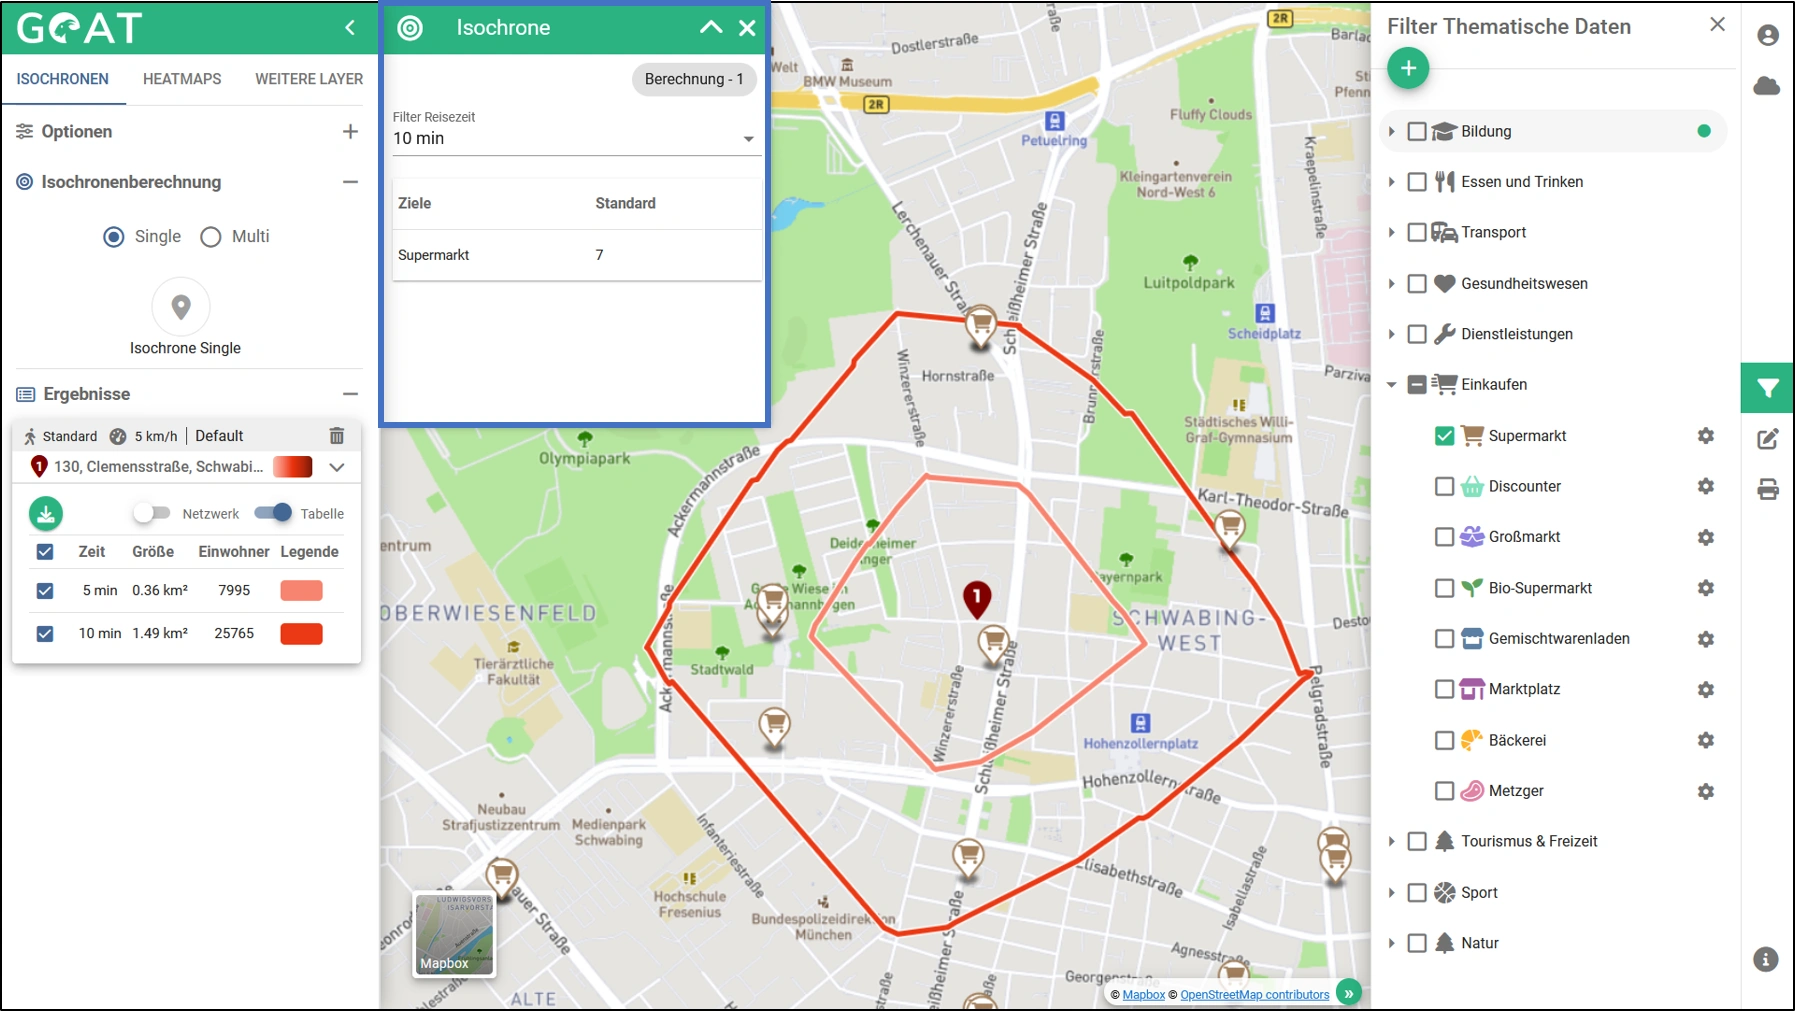
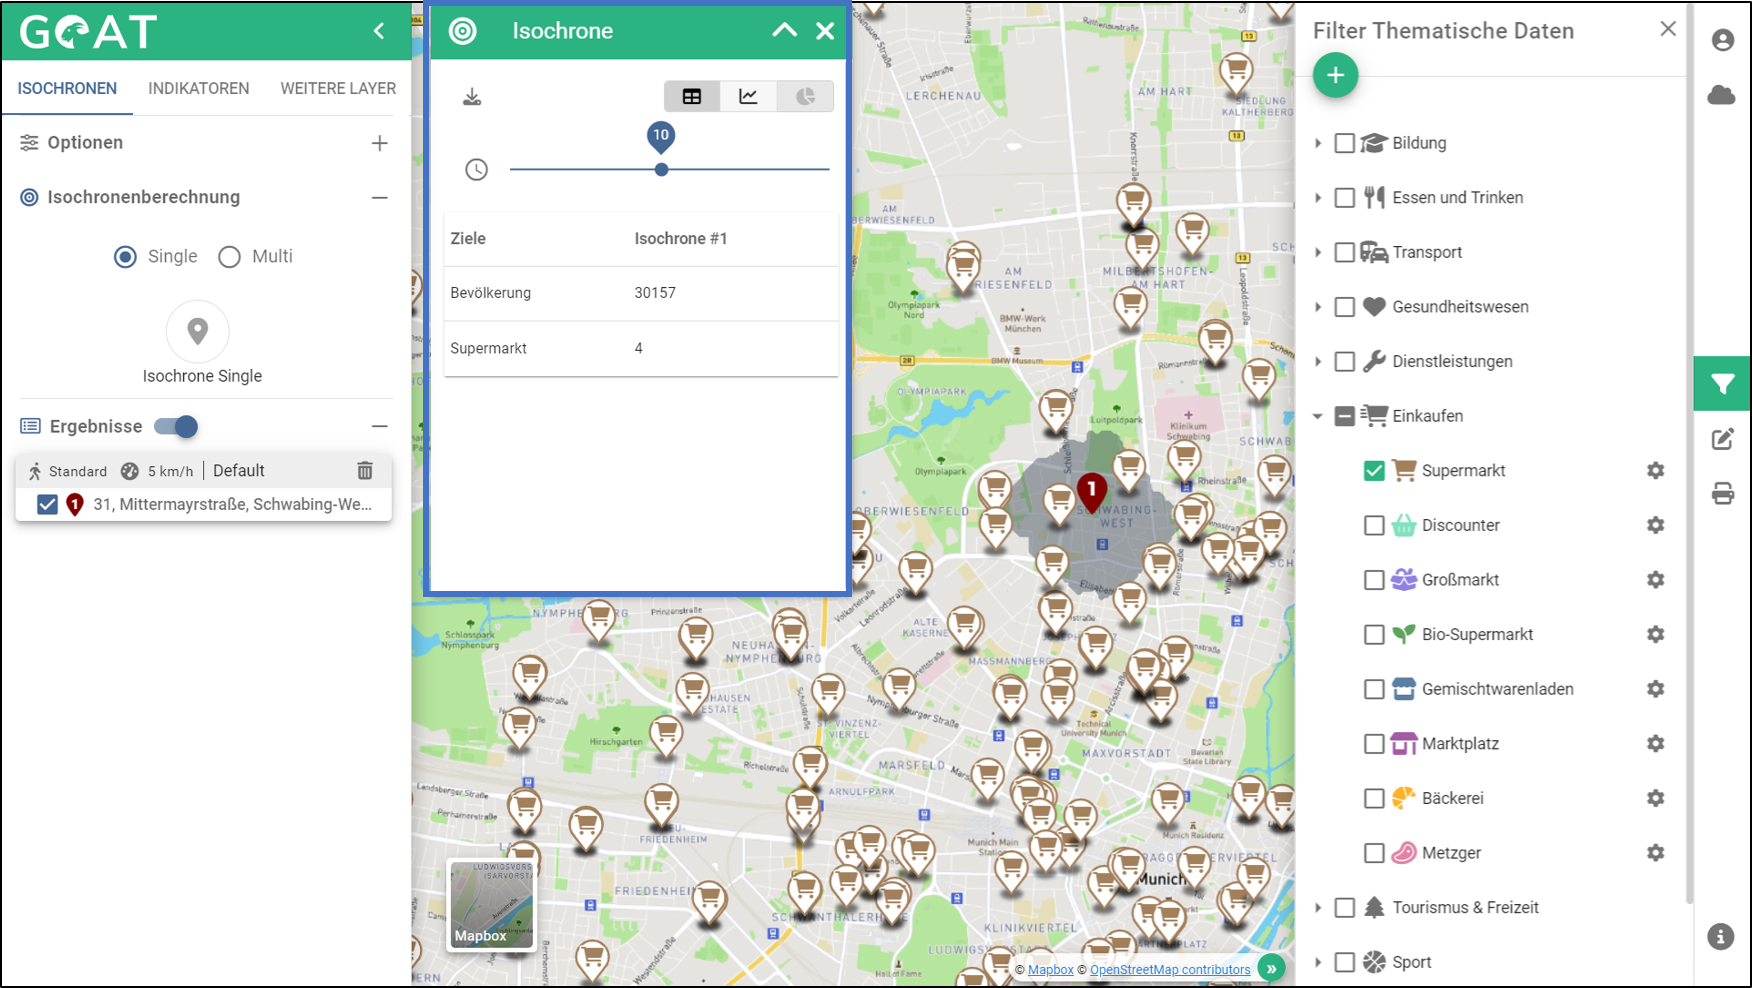
updated screenshots tutorials > isochrones

diff --git a/content/de/tutorials/isochrone.md b/content/de/tutorials/isochrone.md
@@ -11,12 +11,13 @@ description: Schritt-für-Schritt-Anleitung für beispielhafte Planungsfragen un
 #### Beschreibung des Features
 
 Isochronen sind Isolinien, die alle Punkte verbinden, die von einem bestimmten Startpunkt aus innerhalb eines bestimmten Zeitintervalls erreicht werden können. Sie sind besonders geeignet, um die Erreichbarkeit an einem spezifischen Ort aufzuzeigen.
-GOAT ermöglicht die Berechnung von Isochronen und erlaubt die Anpassung der Reisegeschwindigkeit, der Reisezeit und des Routingprofils. Gegenwärtig kann zwischen den Routingprofilen „Zu Fuß“, „Fahrrad Standard“ und „Fahrrad Pedelec“ ausgewählt werden. Außerdem kann die Anzahl der zu berechnenden Isochronen eingestellt werden.
+GOAT ermöglicht die Berechnung von Isochronen und erlaubt die Anpassung der Reisegeschwindigkeit, der Reisezeit und des Routingprofils. Gegenwärtig kann zwischen den Routingprofilen „Zu Fuß“, „Fahrrad Standard“, „Fahrrad Pedelec“, „ÖPNV“ und „Auto“ ausgewählt werden. Außerdem kann die Anzahl der zu berechnenden Isochronen eingestellt werden.
 
 #### Mögliche Anwendungsfälle (Planungsfragen)
 
 * Wie viele Supermärkte können von einem bestimmten Punkt aus innerhalb von 10 Gehminuten erreicht werden?
 * Wie viele Menschen können eine ÖV-Haltestelle innerhalb von 5 Minuten mit dem Fahrrad erreichen?
+* Wie gut ist die Erreichbarkeit mit dem ÖV im Vergleich zur Erreichbarkeit mit dem Auto?
 
 #### Schritt-für-Schritt-Anleitung für die beispielhaften Planungsaufgaben
 
@@ -34,9 +35,9 @@ Wie viele Supermärkte können von einem bestimmten Punkt aus innerhalb von 10 G
 
 2. Zoomen Sie zu dem Bereich, in dem Sie die Isochrone berechnen möchten.
    
-3. Stellen Sie die maximale Reisezeit auf 10 Minuten. Wählen Sie die gewünschte Gehgeschwindigkeit, das Routingprofil und die Anzahl der gewünschten Isochronen aus.
+3. Wählen Sie das Routingprofil und die gewünschte Gehgeschwindigkeit aus.
 
-<img src="/images/tutorials/Isochrone/isochrone_settings.webp"  alt="choose isochrone range" style="max-height:230px;"/>
+<img src="/images/tutorials/Isochrone/Isochrone_1.2_select_de.webp"  alt="choose isochrone range" style="max-height:230px;"/>
 
 4. Platzieren Sie den Startpunkt für die Isochronenberechnung an einem beliebigen Punkt.
    
@@ -45,6 +46,10 @@ Wie viele Supermärkte können von einem bestimmten Punkt aus innerhalb von 10 G
 5. Nachdem die Berechnung ausgeführt wurde, öffnet sich automatisch ein Fenster mit den Ergebnissen. Diesem können Sie die erreichbaren Supermärkte entnehmen.
 
 <img src="/images/tutorials/Isochrone/results_supermarkets.webp"  alt="results"/>
+
+6. Die Ergebnisse können über verschiedene Graphiken analysiert werden. Somit können Sie u.a. die räumliche Verteilung der Supermärkte sehen.
+
+<img src="/images/tutorials/Isochrone/results_supermarkets_2.webp"  alt="results"/>
 
 #### 2 Fahrradrouting
 
@@ -56,22 +61,26 @@ Wie viele Menschen können den Bahnhof innerhalb von 5 Minuten mit dem Fahrrad e
 
 1. Ändern Sie den Routingmodi auf „Fahrrad“ und stellen Sie die Isochronen Reichweite auf 5 Minuten.
    
-<!-- ![](/images/tutorials/Isochrone/cycling-mode.webp) -->
-<img src="/images/tutorials/Isochrone/cycling_mode.webp"  alt="Routing mode cycling" style="max-height:220px;"/>
+<img src="/images/tutorials/Isochrone/Isochrone_2.2_select_de.webp"  alt="Routing mode cycling" style="max-height:220px;"/>
 
 2. Platzieren Sie den Startpunkt für die Isochronenberechnung auf dem Bahnhof.  
    
-<!-- ![](/images/tutorials/Isochrone/starting-point-isochrone.webp) -->
 <img src="/images/tutorials/Isochrone/starting_point_isochrone.webp"  alt="set starting point" style="max-height:150px;"/>
 
-3. Nachdem die Berechnung ausgeführt wurde, erscheint links im Menü ein Fenster mit den Ergebnissen. Diesem können Sie entnehmen, wie viele Menschen den Bahnhof innerhalb von 5 Minuten mit dem Fahrrad erreichen können.
+3. Nachdem die Berechnung ausgeführt wurde, erscheint ein Fenster mit den Ergebnissen. Diesem können Sie entnehmen, wie viele Menschen den Bahnhof innerhalb von 10 Minuten mit dem Fahrrad erreichen können.
 
-<img src="/images/tutorials/Isochrone/cycling_result.webp"  alt="result"/>
+<img src="/images/tutorials/Isochrone/Isochrone_2.3_10minutes_de.webp"  alt="result"/>
 
-4. Durch Klicken auf den Download-Button können Sie die Isochronen als GeoJSON oder Shapefile sowie die Ergebnis-Tabelle als Excel-File herunterladen.
+4. Durch das Bewegen des Sliders kann die Reisezeit dynamisch auf 5 Minuten geändert werden.  
+   
+<img src="/images/tutorials/Isochrone/Isochrone_2.3_5minutes_de.webp"  alt="result"/>
 
-<img src="/images/tutorials/Isochrone/download.webp"  alt="download" style="max-height:250px;"/>
+5. Ergänzeng zur Tabelle können die Bevölkerungszahlen in einer Summenkurve visualisiert werden. 
 
-5. Über den Slider rechts vom Download-Button kann außerdem das Routing-Netzwerk visualisiert werden.
+<img src="/images/tutorials/Isochrone/Isochrone_2.result_different_graph_Eng.webp"  alt="download" style="max-height:300px;"/>
 
-<img src="/images/tutorials/Isochrone/network.webp"  alt="network"/>
+6. Durch Klicken auf den Download-Button können Sie die Isochronen als GeoJSON, Shapefile oder XML sowie die Ergebnis-Tabelle als Excel-File herunterladen.
+
+<img src="/images/tutorials/Isochrone/Isochrone_2.4_export_de.webp"  alt="download" style="max-height:250px;"/>
+
+

diff --git a/content/en/tutorials/isochrone.md b/content/en/tutorials/isochrone.md
@@ -11,12 +11,13 @@ description: Possible use cases and step-by-step tutorials for exemplary plannin
 ---
 #### Description of the feature
 
-Isochrones are isolines connecting all points that can be reached from a specific starting point within a certain time interval. GOAT allows the calculation of isochrones that take factors such as speed, infrastructure network, and traveling time into account. This can be adjusted automatically by choosing between the modes "Walking", "Bike" or "Pedelec". Isochrones can be used as an indicator of accessibility in one specific location.
+Isochrones are isolines connecting all points that can be reached from a specific starting point within a certain time interval. GOAT allows the calculation of isochrones that take factors such as speed, infrastructure network, and traveling time into account. This can be adjusted automatically by choosing between the modes “Walking”, “Bike”, “Pedelec”, “Transit” or “Car”. Isochrones can be used as an indicator of accessibility in one specific location.
 
 #### Possible use cases (planning questions)
 
 * How many supermarkets can be reached from a certain point in a 10-minute walk?
 * How many people can access a public transport station within 5 minutes of cycling?
+* How good is public transport accessibility in comparison to car accessibility?
 
 #### Step-by-step tutorials for exemplary planning tasks
 
@@ -34,9 +35,9 @@ How many supermarkets can be reached from a certain point in 10 minutes walking?
 
 2. Zoom in into the area where you want to calculate the isochrone.
 
-3. Set the isochrone range to 10 minutes. Select the desired walking speed, the routing profile and the number of isochrones.
+3. Select the the routing profile and the desired walking speed.
 
-<img src="/images/tutorials/Isochrone/isochrone_settings_en.webp"  alt="choose isochrone range" style="max-height:230px;"/>
+<img src="/images/tutorials/Isochrone/Isochrone_1.2_select_eng.webp"  alt="choose isochrone range" style="max-height:175px;"/>
 
 4. Place the starting point for the isochrone.
 
@@ -46,6 +47,10 @@ How many supermarkets can be reached from a certain point in 10 minutes walking?
 
 <img src="/images/tutorials/Isochrone/results_supermarkets_en.webp"  alt="results"/>
 
+6.	 In the result window that opens, the results can be analyzed by the use of different graphs. Therewith it can be seen how the supermarkets are spacial distributed. 
+
+<img src="/images/tutorials/Isochrone/results_supermarkets_2_en.webp"  alt="results"/>
+
 #### 2 Bicycle Routing
 
 ##### 2.1 Planning question
@@ -54,23 +59,30 @@ How many people can reach the train station within 5 minutes by bike?
 
 ##### 2.2 Work steps
 
-1. Change the routing mode to “cycling and set the isochrone range to 5 minutes.
-
-<img src="/images/tutorials/Isochrone/cycling_mode_en.webp"  alt="Routing mode cycling" style="max-height:220px;"/>
+1. Change the routing mode to "cycling" and choose the desired speed.
+   
+<img src="/images/tutorials/Isochrone/Isochrone_2.2_select_eng.webp"  alt="Routing mode cycling" style="max-height:220px;"/>
 
 2. Place the starting point for the isochrone calculation on the station.
 
-<!-- ![](/images/tutorials/Isochrone/starting-point-isochrone.webp) -->
 <img src="/images/tutorials/Isochrone/starting_point_isochrone_en.webp"  alt="set starting point" style="max-height:150px;"/>
 
-3. After the calculation has been carried out, a window with the results opens automatically. From this window you can see the population that can reach the train station within 5 minutes of cycling.
+3. After the calculation has been carried out, a window with the results opens automatically. From this window you can see the population that can reach the train station within 10 minutes of cycling.
 
-<img src="/images/tutorials/Isochrone/cycling_result_en.webp"  alt="result"/>
+<img src="/images/tutorials/Isochrone/Isochrone_2.3_10minutes_eng.webp"  alt="result"/>
 
-4. By clicking on the download button you can download the isochrones as GeoJSON or Shapefile and the result table as Excel file.
+4. The travel time can interactively be adjusted to 5 minutes by moving the slider. 
+   
+<img src="/images/tutorials/Isochrone/Isochrone_2.3_5minutes_eng.webp"  alt="result"/>
 
-<img src="/images/tutorials/Isochrone/download_en.webp"  alt="download" style="max-height:230px;"/>
+5. Besides the table, the population count can be visualized in a graph.
 
-5. The slider to the right of the download button can be used to visualise the routing network.
+<img src="/images/tutorials/Isochrone/Isochrone_2.result_different_graph_Eng.webp"  alt="download" style="max-height:300px;"/>
 
-<img src="/images/tutorials/Isochrone/network_en.webp"  alt="network"/>
+6. By clicking on the download button you can download the isochrones as GeoJSON, Shapefile or XML and the result table as Excel file.
+
+<img src="/images/tutorials/Isochrone/Isochrone_2.4_export_eng.webp"  alt="download" style="max-height:230px;"/>
+
+
+
+
